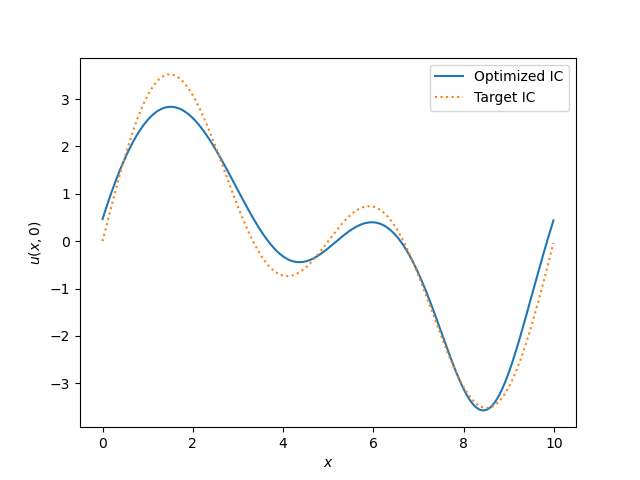
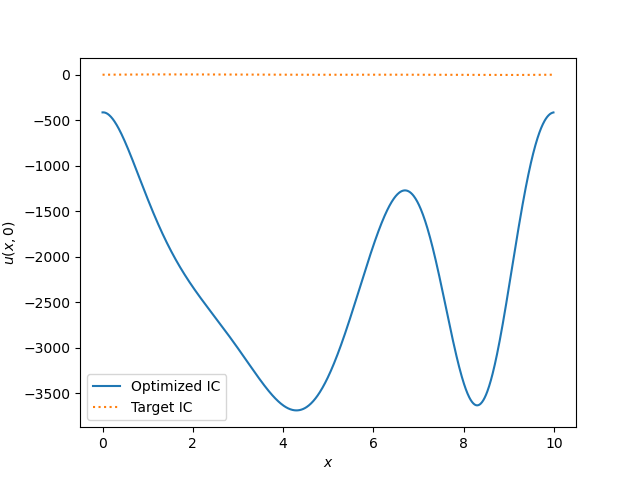
kdv4

diff --git a/adjop/kdv/kdv_parallel.py b/adjop/kdv/kdv_parallel.py
@@ -54,6 +54,7 @@ euler_safety = config.getfloat('parameters', 'euler_safety')
 gamma_init = config.getfloat('parameters', 'gamma_init')
 
 periodic = config.getboolean('parameters', 'periodic')
+restart = config.getboolean('parameters', 'restart')
 show_forward = config.getboolean('parameters', 'show')
 show_iter_cadence = config.getint('parameters', 'show_iter_cadence')
 show_loop_cadence = config.getint('parameters', 'show_loop_cadence')
@@ -84,7 +85,7 @@ opt = KdvOptimization(domain, xcoord, forward_solver, backward_solver, lagrangia
 opt.beta_calc = 'euler'
 opt.set_time_domain(T, num_cp, dt)
 opt.opt_iters = opt_iters
-
+opt.gamma_init = gamma_init
 
 opt.x_grid = x
 opt.show_iter_cadence = show_iter_cadence
@@ -100,11 +101,18 @@ guess = 0.0
 
 tracker_name = path + '/' + write_suffix + '/tracker_rank' + str(CW.rank) + '.pick'
 opt.cp_internal_names = 'cp' + str(CW.rank)
-opt.descent_tracker = {}
-opt.descent_tracker['objectiveT'] = []
-opt.descent_tracker['x'] = []
 
-path = os.path.dirname(os.path.abspath(__file__))
+if restart:
+    opt.descent_tracker = {}
+    opt.descent_tracker['objectiveT'] = []
+    opt.descent_tracker['x'] = []
+    load_ind = 0
+else:
+    with open(tracker_name, 'rb') as file:
+        opt.descent_tracker = pickle.load(file)
+    opt.loop_index = len(opt.descent_tracker['x'])
+    load_ind = opt.loop_index
+
 U_data = np.loadtxt(path + '/kdv_U.txt')
 u = next(field for field in forward_solver.state if field.name == 'u')
 U = dist.Field(name='U', bases=xbasis)
@@ -126,9 +134,10 @@ if (CW.size != Nics):
 
 theta = np.linspace(0, 2*np.pi, CW.size)[CW.rank]
 
-mode1_coeff = 2 + np.cos(theta)
-mode2_coeff = 2 + np.sin(theta)
-opt.ic['u']['g'] = mode1_coeff*mode1['g'] + mode2_coeff*mode2['g']
+if restart:
+    mode1_coeff = 2 + np.cos(theta)
+    mode2_coeff = 2 + np.sin(theta)
+    opt.ic['u']['g'] = mode1_coeff*mode1['g'] + mode2_coeff*mode2['g']
 
 # opt.ic['u']['g'] = 2.987*mode1['g'] + 7.3*mode2['g']
 
@@ -149,9 +158,9 @@ def euler_descent(fun, x0, args, **kwargs):
         old_f = f
         f, gradf = opt.loop(x0)
         old_gamma = gamma
-        if i > 0 and euler_safety != 0:
+        if (load_ind + 2 <= opt.loop_index):
             gamma = opt.compute_gamma(euler_safety)
-            step_p = (old_f - f) / old_gamma / (opt.old_grad_sqrd)
+            step_p = (old_f - f) / old_gamma / (opt.old_grad_sqrd) * np.sum(gradf**2)
             opt.metricsT_norms['step_p'] = step_p
         else:
             gamma = gamma_init
@@ -163,7 +172,7 @@ def euler_descent(fun, x0, args, **kwargs):
             with open(tracker_name, 'wb') as file:
                 pickle.dump(opt.descent_tracker, file)
 
-        x0 -= 1e4 * gamma * gradf
+        x0 -= 1e4 * gamma * gradf / np.sum(gradf**2)
     logger.info('success')
     logger.info('maxiter = {}'.format(maxiter))
     return optimize.OptimizeResult(x=x0, success=True, message='beep boop')
@@ -175,7 +184,10 @@ startTime = datetime.now()
 try:
     tol = 1e-10
     options = {'maxiter' : opt_iters, 'ftol' : tol, 'gtol' : tol}
-    x0 = opt.ic['u']['g'].flatten().copy()  # Initial guess.
+    if restart:
+        x0 = opt.ic['u']['g'].flatten().copy()  # Initial guess.
+    else:
+        x0 = opt.descent_tracker['x'][-1].copy()
     res1 = optimize.minimize(opt.loop_forward, x0, jac=opt.loop_backward, method=method, tol=tol, options=options)
     # res1 = optimize.minimize(opt.loop_forward, x0, jac=opt.loop_backward, method='L-BFGS-B', tol=tol, options=options)
     # res1 = optimize.minimize(opt.loop_forwaoh rd, x0, jac=opt.loop_backward, method=euler_descent, options=options)

diff --git a/adjop/OptimizationContext.py b/adjop/OptimizationContext.py
@@ -403,7 +403,7 @@ class OptimizationContext:
    # This works really well for periodic kdv
     def compute_gamma(self, epsilon_safety):
         if (self.loop_index == 1):
-            return 1e-3
+            return self.gamma_init
         else:
             # https://en.wikipedia.org/wiki/Gradient_descent
             grad_diff = self.new_grad - self.old_grad
@@ -420,7 +420,9 @@ class OptimizationContext:
                 old_grad_sqrd = 0.0
             gamma = CW.bcast(gamma, root=0)
             self.old_grad_sqrd = CW.bcast(old_grad_sqrd, root=0)
-            return gamma
+        if (epsilon_safety == 0.0):
+            return self.gamma_init
+        return gamma
 
 #     def descend(self, gamma, **kwargs):
 

diff --git a/adjop/kdv/paths_pod.py b/adjop/kdv/paths_pod.py
@@ -112,7 +112,7 @@ for i in range(0, 20, 1):
     tracker_name = path + '/' + write_suffix + '/tracker_rank' + str(i) + '.pick'
     with open(tracker_name, 'rb') as file:
         tracker = pickle.load(file)
-    x0 = tracker['x']
+    x0 = tracker['x'][:130]
     iters = len(x0)
     objs = tracker['objectiveT']
     logger.info('appending {}/{}'.format(i, Nics))
@@ -121,7 +121,7 @@ for i in range(0, 20, 1):
 
 data = np.array(data)
 
-comps = 3
+comps = 5
 pca = PCA(n_components=comps)
 pca.fit(data)
 print(pca.singular_values_)
